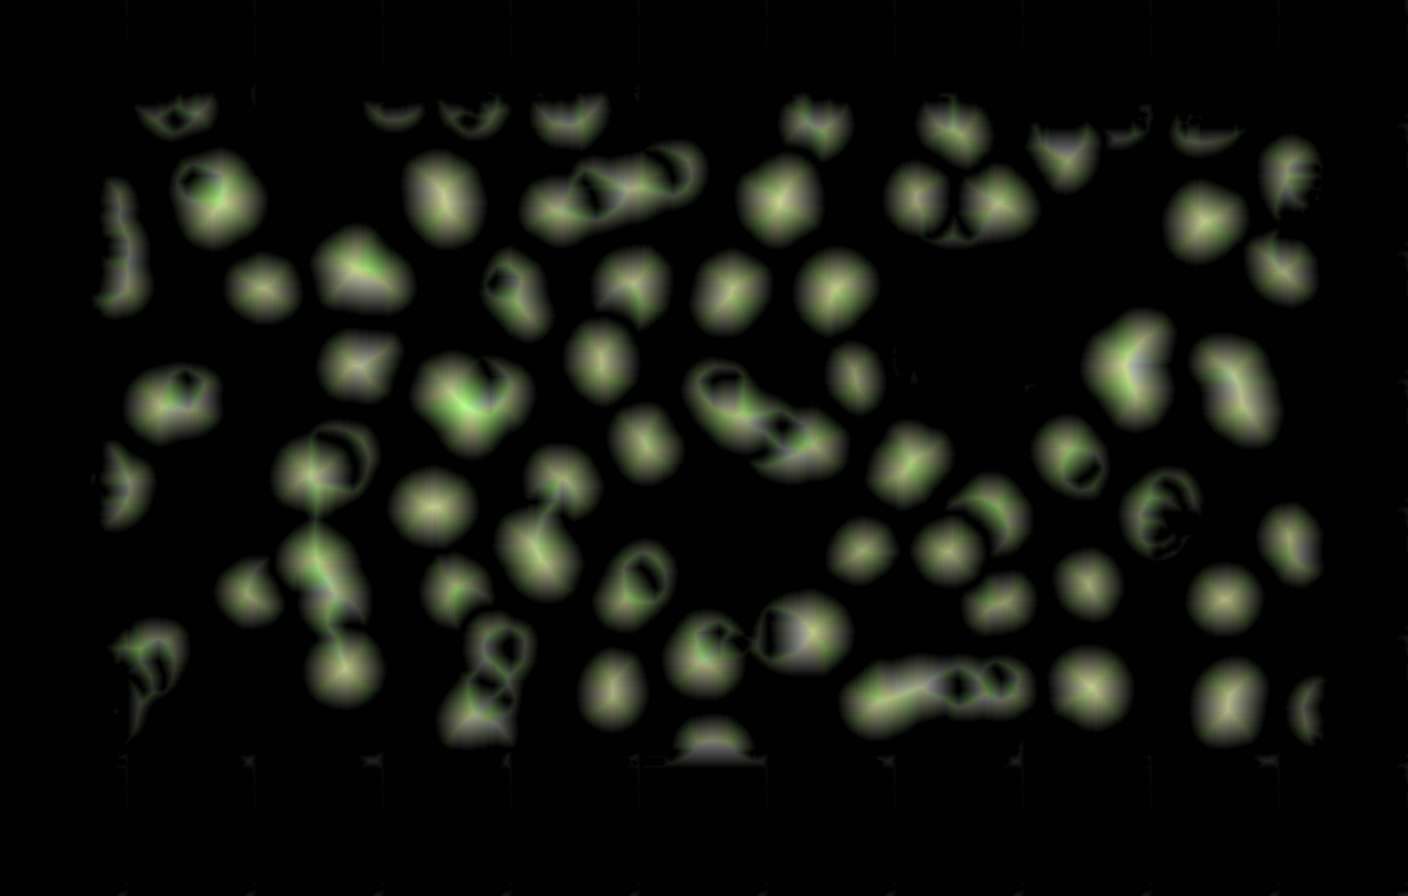
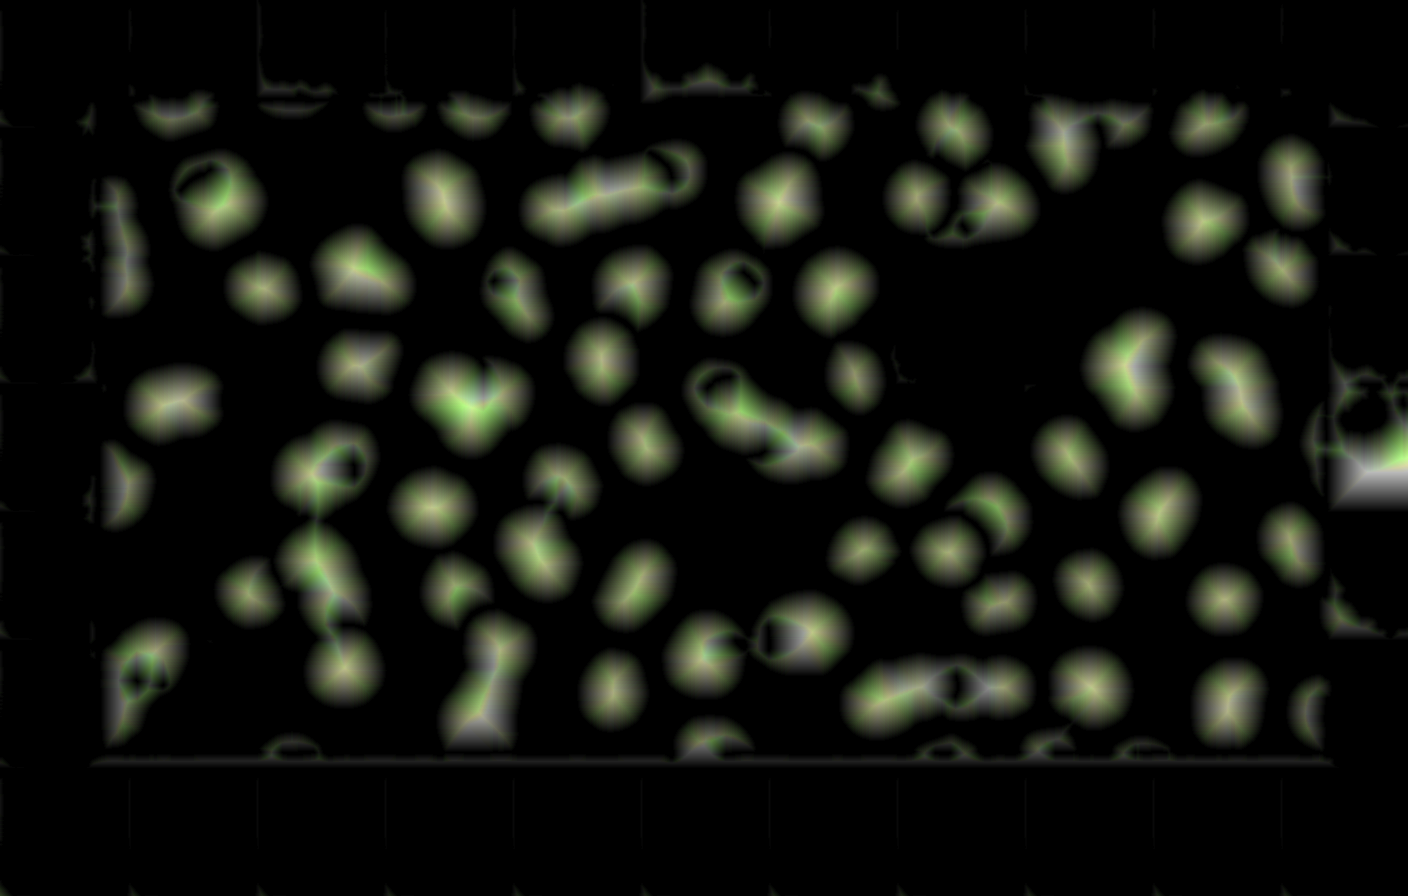
96.5 mask and 92.9 edge accuracy weights updated but with some more noise!

diff --git a/src/run.py b/src/run.py
@@ -341,11 +341,11 @@ def distance_transform(img='edge.png'):
 # main program
 if __name__ == '__main__':
     # train('mse')
-    evaluate(model_name='mse')
-    predict(model_name='mse')
+    # evaluate(model_name='mse')
+    # predict(model_name='mse')
     threshold(img='mask.png')
     threshold(img='edge.png')
     threshold(img='edge_mask.png')
     distance_transform(img='threshold_edge_mask.png')
     hough_transform(img='edge.png')
-    component_labeling(img='distance_transform.png')
+    component_labeling(img='edge_mask.png')
